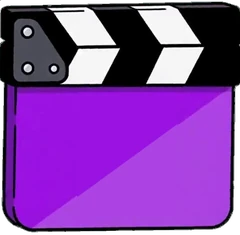
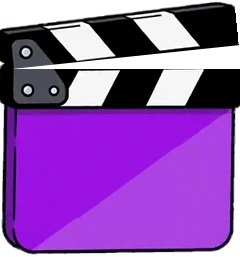
Open the scene clapperboard slightly ajar
Claude-Session: https://claude.ai/code/session_01Mm9XAqpH2Tm9RZFnvzoxAh

diff --git a/PlotMix.jsx b/PlotMix.jsx
@@ -2532,10 +2532,10 @@ function IconStar({size=21}) {
 function SceneClapper({scene, total}) {
   return (
     <div role="img" aria-label={`Scene ${scene} of ${total}`}
-      style={{position:"relative",width:96,height:94,flexShrink:0}}>
+      style={{position:"relative",width:96,height:103,flexShrink:0}}>
       <img src="/stickers/scene-clapper.webp" alt="" aria-hidden="true" draggable="false"
         style={{display:"block",width:"100%",height:"100%",userSelect:"none",pointerEvents:"none",filter:"drop-shadow(0 3px 0 #1C1D21)"}}/>
-      <div aria-hidden="true" style={{position:"absolute",left:"6%",right:"6%",top:"40%",bottom:"8%",display:"flex",flexDirection:"column",alignItems:"center",justifyContent:"center",
+      <div aria-hidden="true" style={{position:"absolute",left:"6%",right:"6%",top:"45%",bottom:"7%",display:"flex",flexDirection:"column",alignItems:"center",justifyContent:"center",
         ...YELLOW_STICKER_TEXT,lineHeight:1,textAlign:"center"}}>
         <span style={{fontSize:12,letterSpacing:"0.06em"}}>SCENE</span>
         <span style={{fontSize:23,marginTop:2}}>{scene}/{total}</span>
